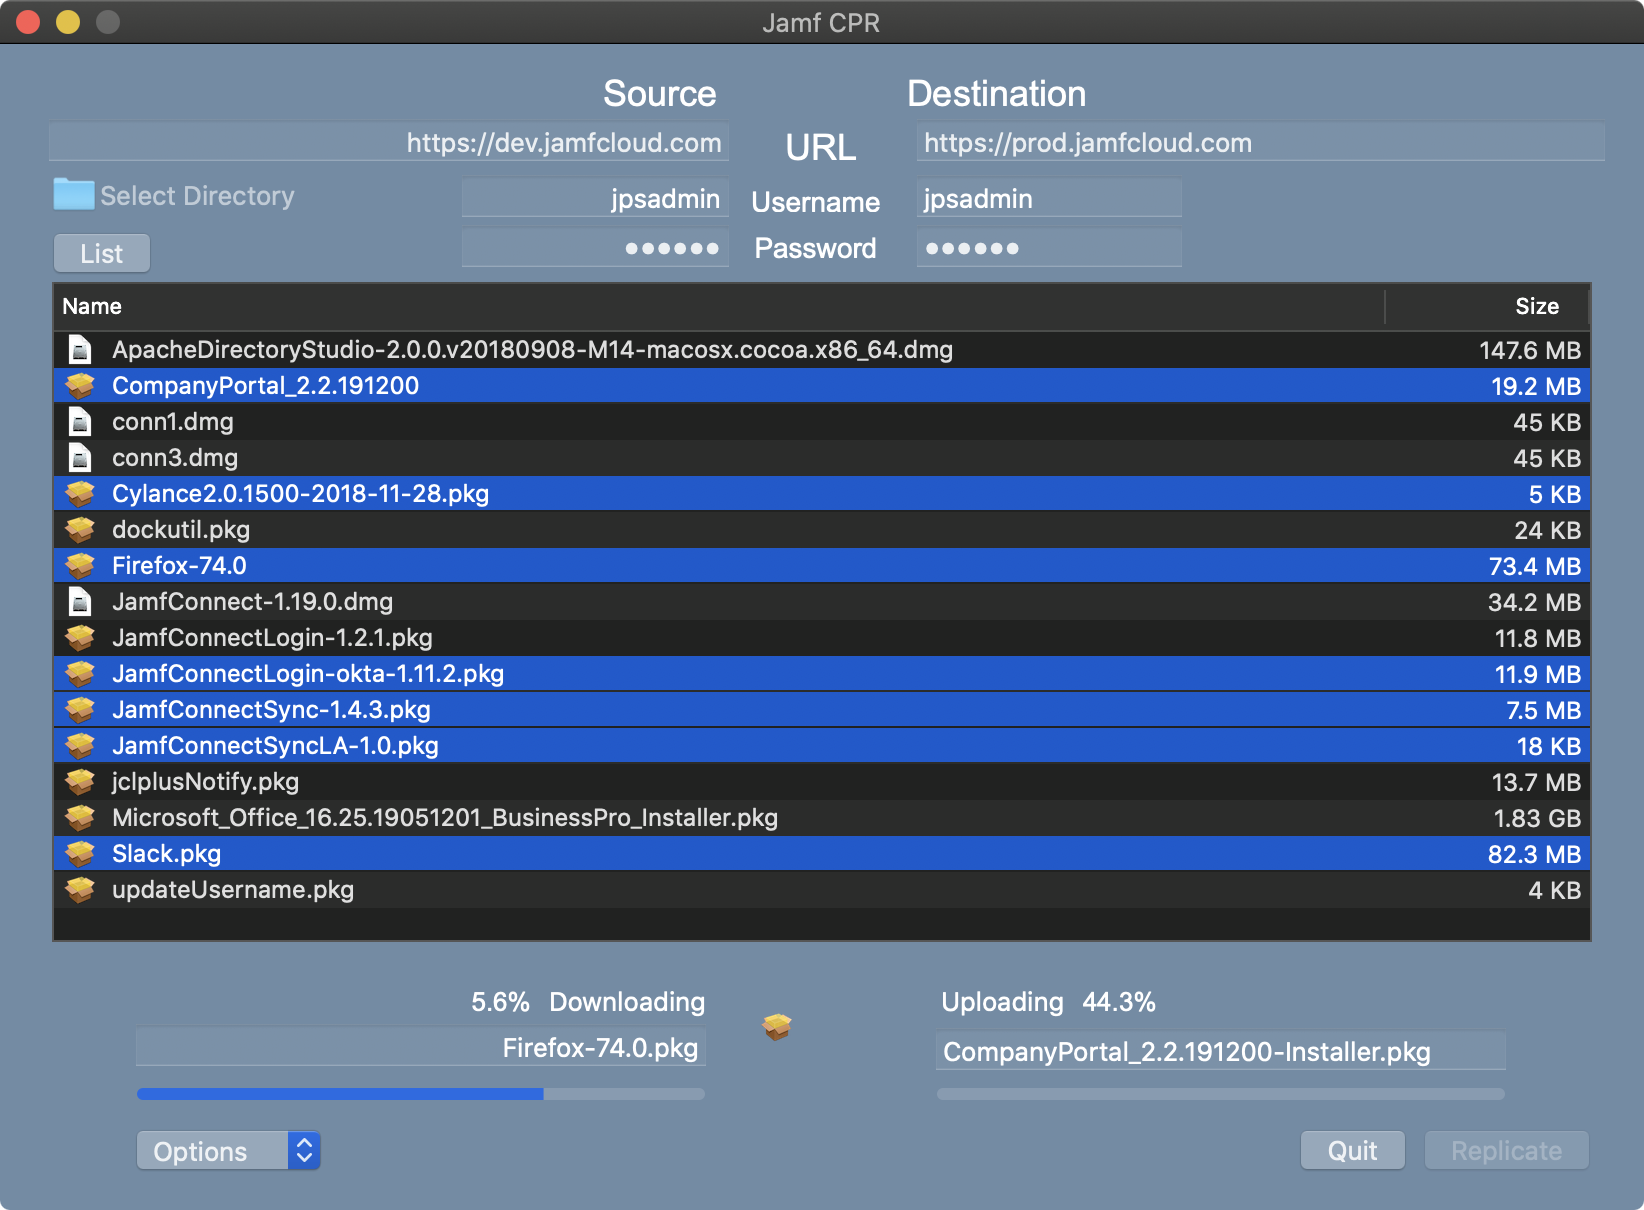
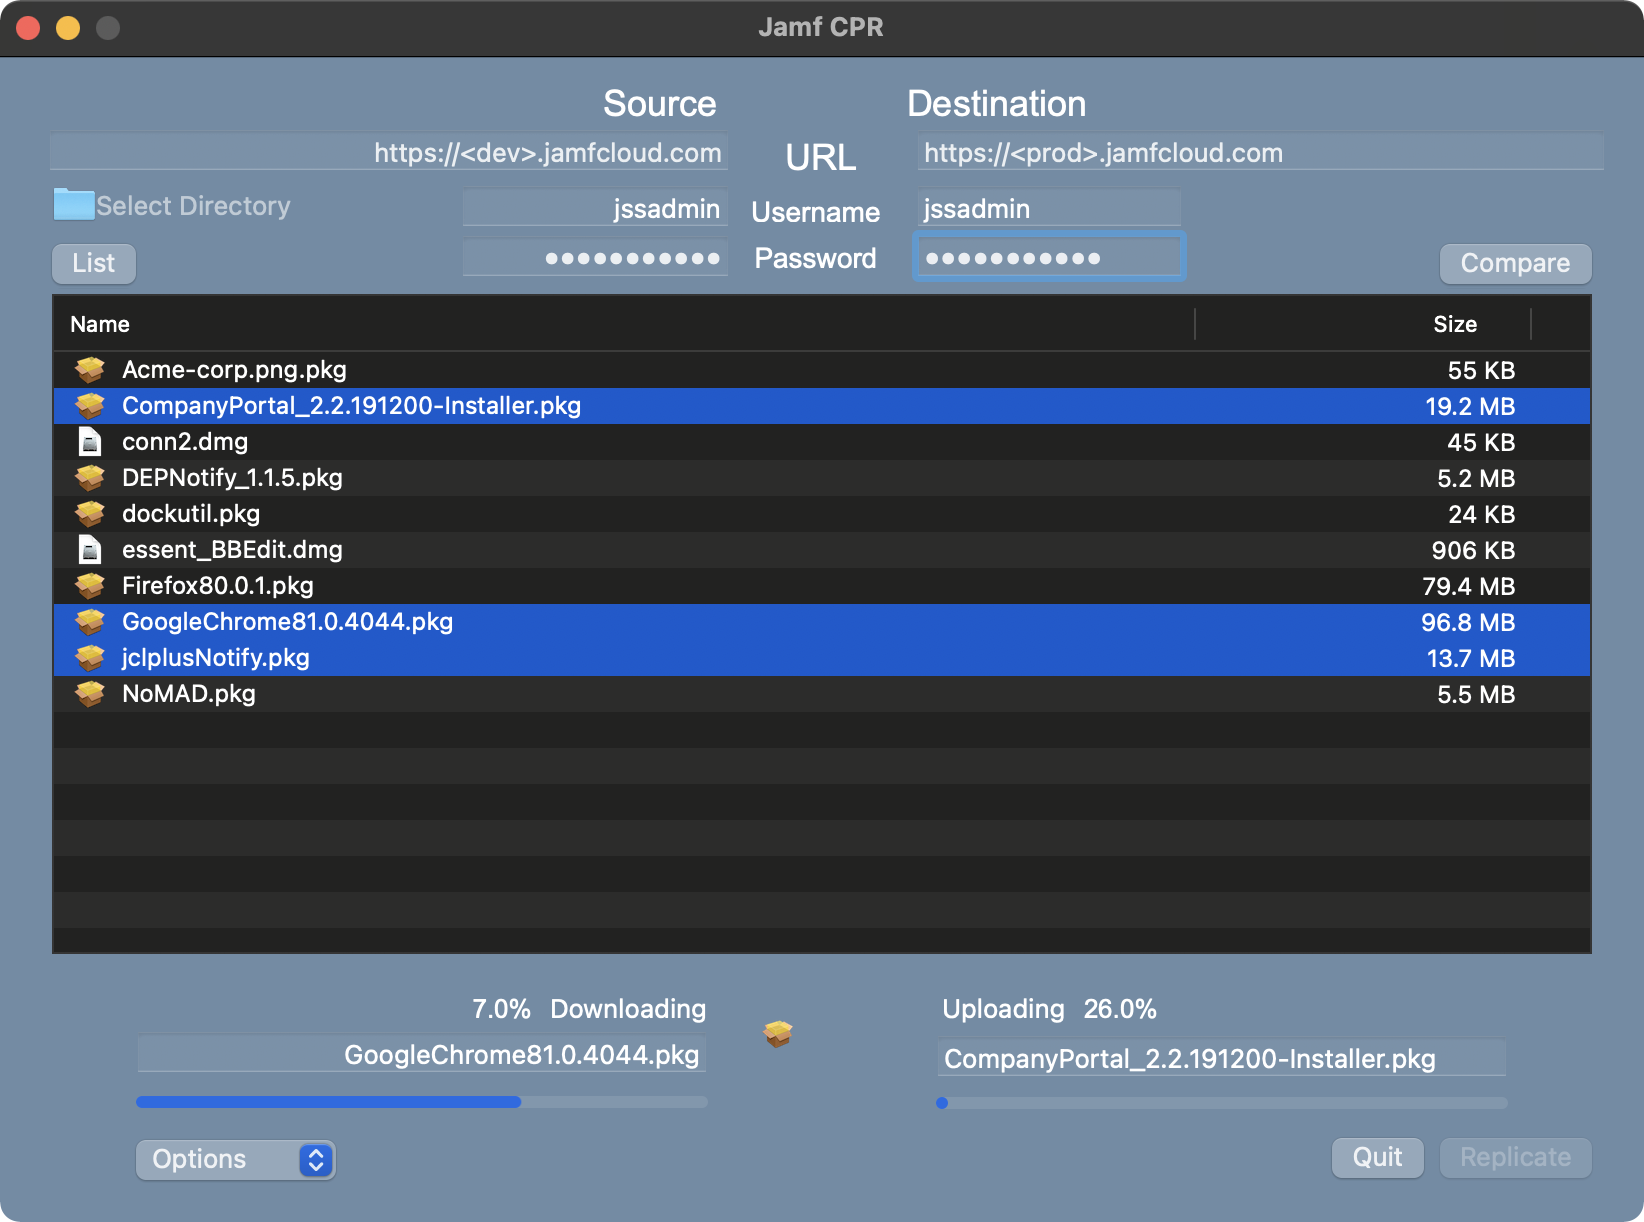
Update readme

diff --git a/README.md b/README.md
@@ -13,8 +13,16 @@ Copy packages from a directory (local/mounted share/drive) or from one JCDS to a
 
 ![alt text](./images/select.png "select")
 
+To identify packages not currently on the destination JCDS click the Compare button.
+
+
+![alt text](./images/compare.png "compare")
+
+
 Once you have a list of packages select the package(s) you wish to replicate and click the Replicate button.  For the first two methods packages are replicated from the directory/share to the JCDS.  For the last method, where a JCDS is the source, packages are downloaded to ~/Downloads/jamfcpr/, then uploaded to the destination JCDS.  By default, once the upload is complete the local copy is deleted.  This behavior can be changed by selecting Save from the Options button.  In addition you're able to select Save Only, i.e. packages will only be downloaded.
-Checksums are used to determine if the package to upload differs from what is already on the JCDS.
+Checksums are used to determine if the package to upload differs from what is already on the JCDS. 
+
+* To override this behavior, and force package(s) to sync, select "Force Sync" under the Options button.
 
 Note, percents shown represent percent of current file being uploaded/downloaded.  The status bars represent the progress of all transfers.  
 
@@ -22,6 +30,8 @@ Application log is available in ~/Library/Logs/jamfcpr/
 
 ## History
 
-- 2021-03-27: Added option to force sync (ignore matching checksums).  Option is available through the Options button.
+- 2021-03-28: Fix issue where small (< ~1MB) packages failed to sync.  Add ability to identify packages not on the destination server.
 
-- 2021-02-17: Fixed issued authenticating agains Jamf Pro v10.27 to get a list of packages from the source server.
+- 2021-03-27: Added option to force sync (ignore matching checksums), available by selecting "Force Sync" through the Options button.
+
+- 2021-02-17: Fixed issued authenticating against Jamf Pro v10.27 to get a list of packages from the source server.
